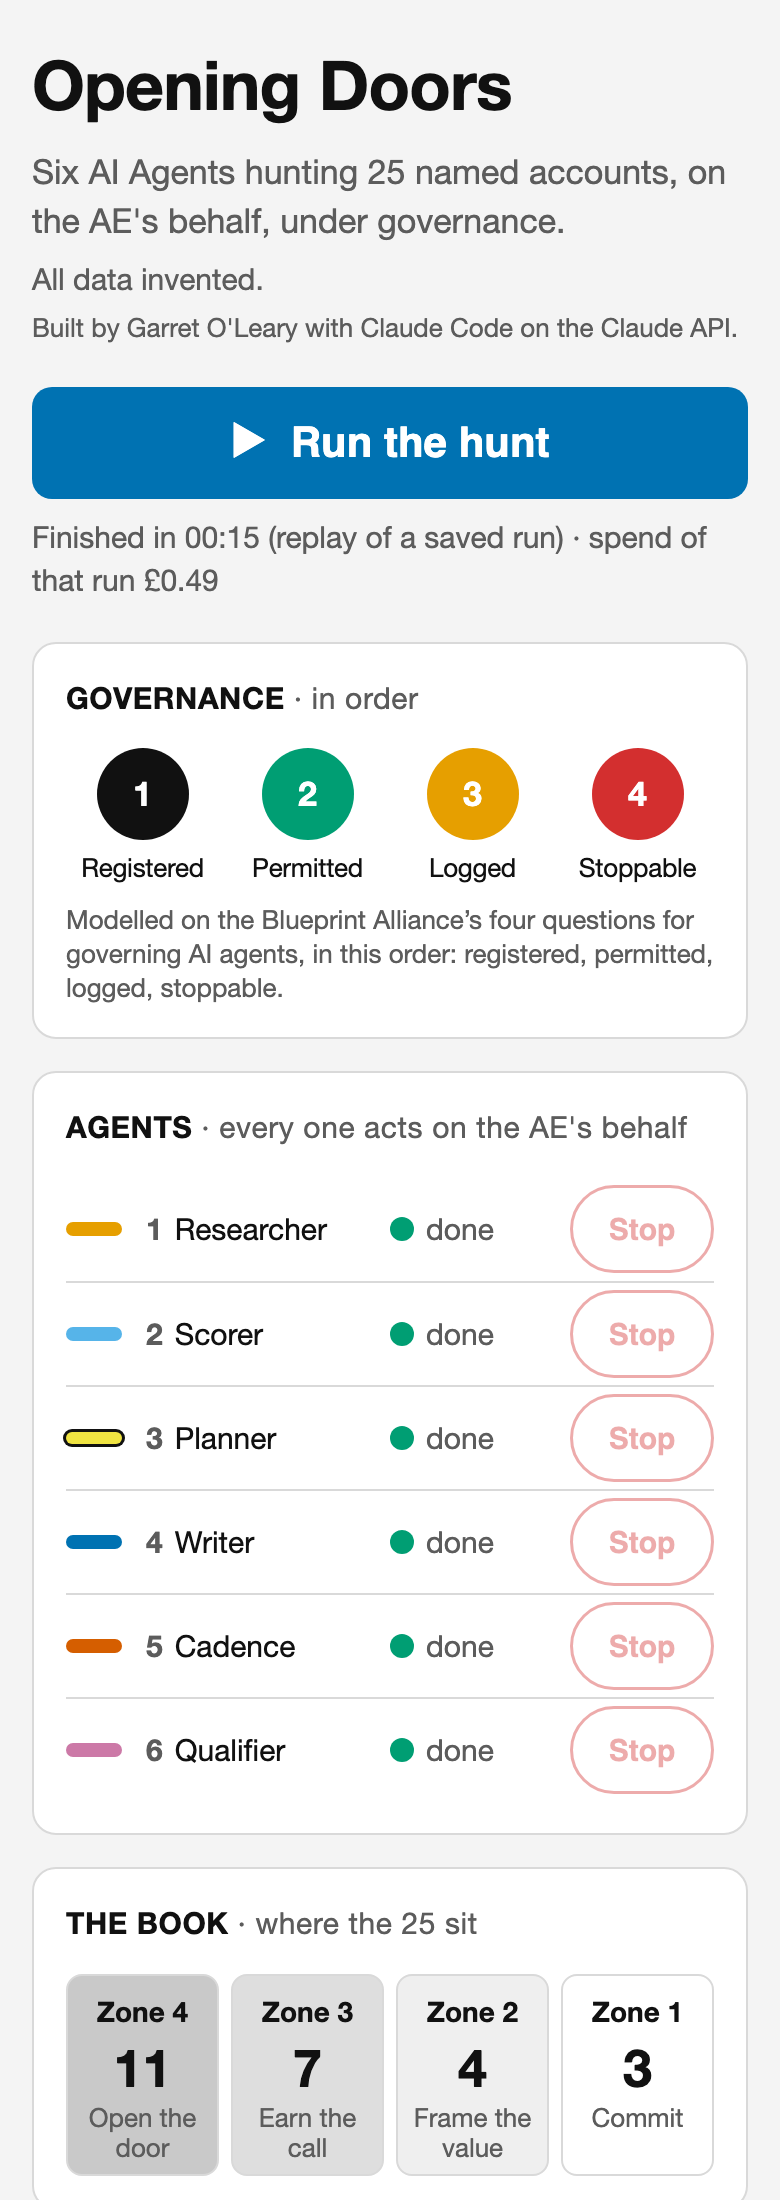
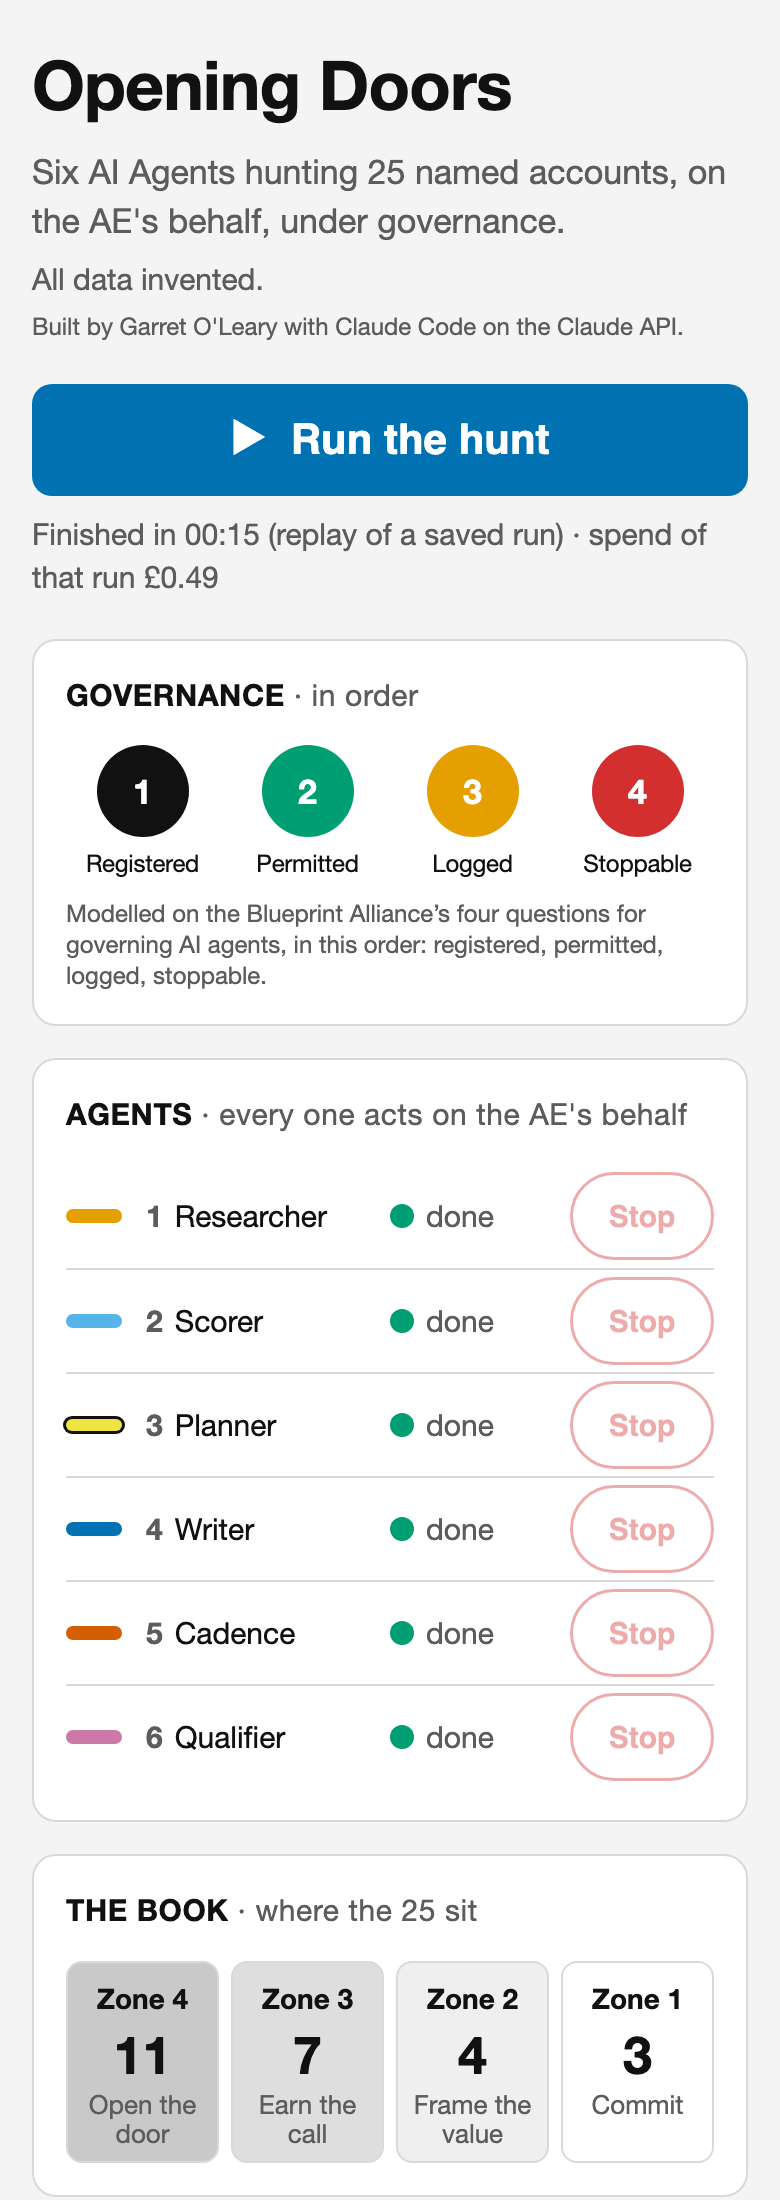
Phone labels fit, Alliance line as caption

diff --git a/web/index.html b/web/index.html
@@ -18,7 +18,7 @@
   h1 { font-size: 34px; line-height: 1.1; margin: 0 0 12px; letter-spacing: -0.01em; }
   .desc { margin: 0 0 6px; color: var(--muted); }
   .notice { margin: 0 0 4px; color: var(--muted); font-size: 15px; }
-  .credit { margin: 0 0 20px; color: var(--muted); font-size: 13px; }
+  .credit { margin: 0 0 20px; color: var(--muted); font-size: 12px; font-family: inherit; }
   button.run { display: block; width: 100%; min-height: 56px; border: 0; border-radius: 10px; background: var(--blue); color: #fff;
     font: 600 21px/1 Inter, -apple-system, sans-serif; cursor: pointer; }
   button.run:disabled { opacity: .55; cursor: default; }
@@ -35,8 +35,8 @@
   .light.on.green .dot { background: var(--green); }
   .light.on.amber .dot { background: var(--amber); }
   .light.on.red .dot { background: var(--red); }
-  .govline { margin: 10px 0 0; color: var(--muted); font-size: 13px; line-height: 1.3; }
-  .light .label { font-size: 13px; line-height: 1.2; white-space: nowrap; overflow: hidden; text-overflow: clip; letter-spacing: -0.01em; }
+  .govline { margin: 10px 0 0; color: var(--muted); font-size: 12px; line-height: 1.3; font-family: inherit; }
+  .light .label { font-size: 12px; line-height: 1.2; white-space: nowrap; overflow: visible; letter-spacing: -0.01em; }
   .agents { list-style: none; margin: 0; padding: 0; }
   .agents li { display: grid; grid-template-columns: 34px minmax(0, 1fr) 84px 72px; align-items: center; gap: 6px; min-height: 52px; border-top: 1px solid var(--line); }
   .agents li > * { min-width: 0; }
@@ -120,7 +120,7 @@
     .card.gov .light .dot { width: 42px; height: 42px; font-size: 17px; margin-bottom: 4px; }
     .card.gov .light .label { font-size: 14px; white-space: nowrap; }
     .card.gov .lights { gap: 24px; max-width: 560px; margin: 0 auto; }
-    .card.gov .govline { text-align: center; margin: 6px auto 0; max-width: 720px; font-size: 12px; }
+    .card.gov .govline { text-align: center; margin: 6px auto 0; max-width: 720px; }
     .card.gov h2 { margin: 0; }
     .card.gov .lights { gap: 24px; max-width: 760px; margin: 0 auto; }
     .card.gov .stripinfo { text-align: right; font-size: 15px; color: var(--muted); }
